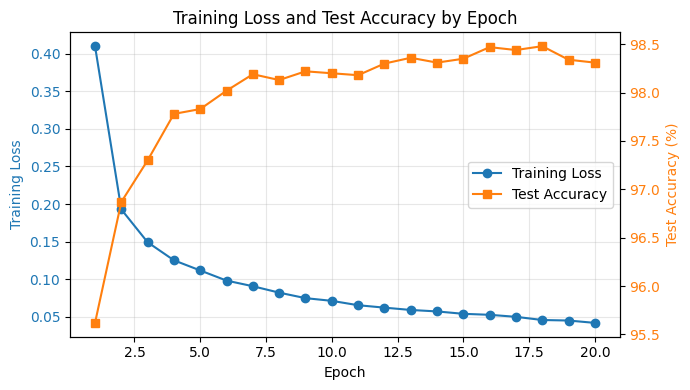
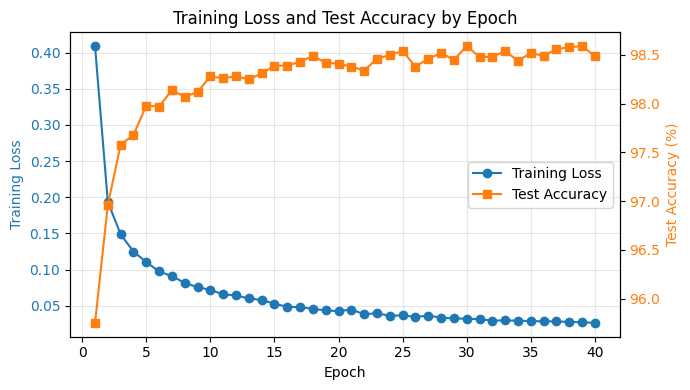
docs: 최종 발표 보고서 반영

diff --git a/REPORT.md b/REPORT.md
@@ -83,9 +83,8 @@ Forward -> Loss -> Backward -> Optimizer Update
 | **Python** | Python 3.11 |
 | **주요 라이브러리** | NumPy, Matplotlib |
 | **테스트 도구** | Pytest |
-| **실행 환경** | Google Colab T4 GPU |
+| **실행 환경** | CPU |
 | **학습 소요 시간** | 약 4분 |
-| **단위 테스트 실행 시간** | 3.45초 |
 
 
 ---
@@ -97,14 +96,7 @@ Forward -> Loss -> Backward -> Optimizer Update
 | **테스트 정확도** | 98.54% |
 | **총 파라미터 수** | 537,354 |
 
-- 과제 권장 목표: 97% 이상
-- 최종 모델: **98.54%**로 목표 기준 달성
 
-테스트 결과:
-
-```text
-21 passed in 3.45s
-```
 
 <details>
 <summary>파라미터 수 계산</summary>
@@ -137,11 +129,11 @@ Total = 537,354
 
 ### 학습 곡선
 
-- 파란색 Training Loss는 epoch가 진행될수록 꾸준히 감소했다.
-- 주황색 Test Accuracy는 초반에 빠르게 상승한 뒤 98%대에서 안정적으로 유지되었다.
-- 초반에는 기본 숫자 패턴을 빠르게 학습해 loss가 크게 줄고 accuracy가 빠르게 올랐다.
-- 후반에는 쉬운 패턴을 이미 학습한 상태라 개선 폭이 작아져 완만한 변화가 나타났다.
-- 결론: 20 epoch 범위에서는 과적합이 크게 나타나지 않고 안정적으로 수렴했다.
+- epoch를 40까지 늘려 Training Loss와 Test Accuracy 변화를 함께 확인했다.
+- 파란색 Training Loss는 epoch가 증가할수록 계속 감소했다.
+- 주황색 Test Accuracy는 초반에 빠르게 상승한 뒤 98%대 중반에서 거의 유지되었다.
+- 중반 이후에는 training loss가 더 낮아져도 test accuracy 향상 폭은 작아졌다.
+- 결론: 심한 과적합은 보이지 않았지만, 일정 epoch 이후에는 추가 학습 효과가 점차 작아졌다.
 
 ![Training Loss and Test Accuracy Curve](assets/loss_accuracy_curve.png)
 
